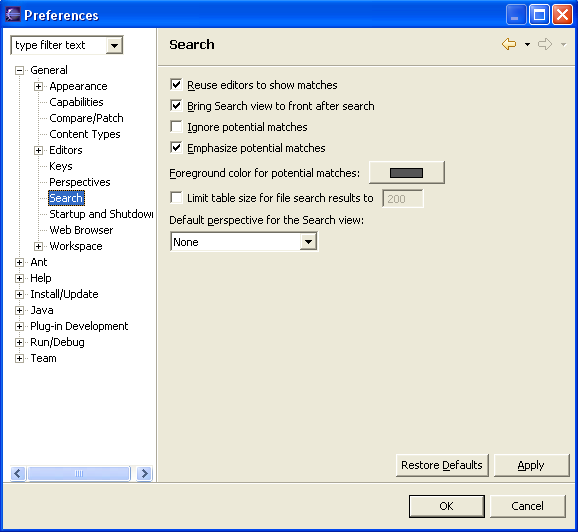
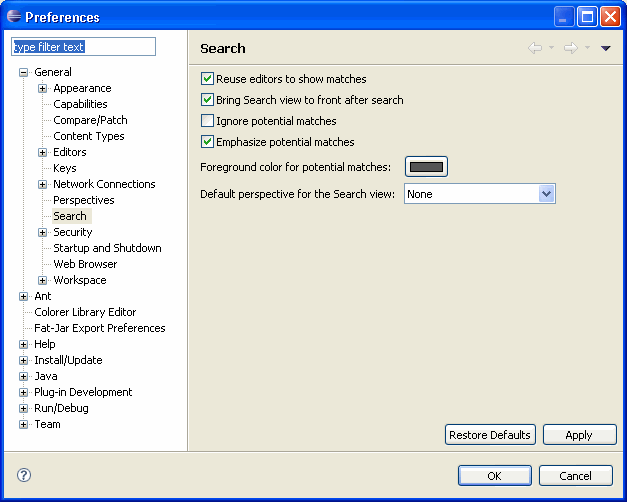
Fixed bug 192148: Search Preference page needs to updated

Changed region(s): [[0.0, 0.0, 1.0, 1.0]]

diff --git a/bundles/org.eclipse.platform.doc.user/reference/ref-search.htm b/bundles/org.eclipse.platform.doc.user/reference/ref-search.htm
@@ -69,14 +69,6 @@ preference page allows you to set preferences for searches.
     </TR>
     <TR> 
       <TD ROWSPAN="1" COLSPAN="1" valign="top" align="left"> <P CLASS="Para"> 
-          Limit table size for file search results to</P></TD>
-      <TD ROWSPAN="1" COLSPAN="1" valign="top" align="left"> <P CLASS="Para"> 
-          This option allows you to limit the table size for file search results 
-          to a preset number.</P></TD>
-      <TD>Off </TD>
-    </TR>
-    <TR> 
-      <TD ROWSPAN="1" COLSPAN="1" valign="top" align="left"> <P CLASS="Para"> 
           Default perspective for the Search view</P></TD>
       <TD ROWSPAN="1" COLSPAN="1" valign="top" align="left"> <P CLASS="Para"> 
           This option allows you to define which perspective should be brought 
